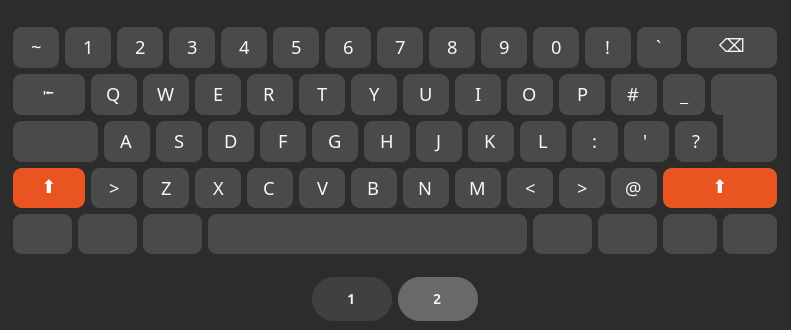
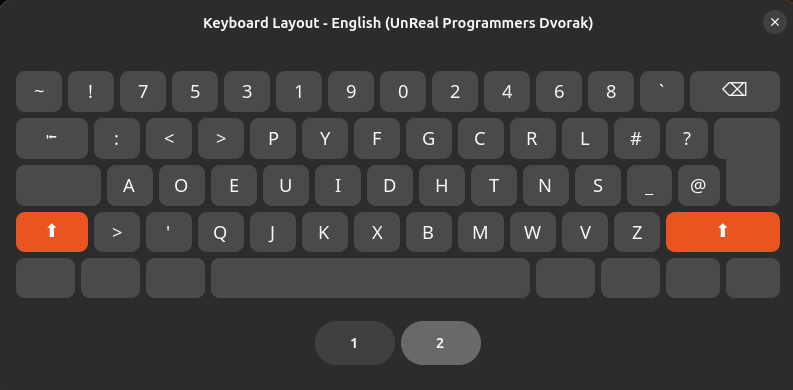
modified dvorak number row

diff --git a/xkb/README.md b/xkb/README.md
@@ -1,18 +1,16 @@
 
 # ⌨ Custom Keyboard layout config — Installation Guide
 
-Includes two keyboard layouts for a custom qwerty and dvorak layout
+Includes two keyboard layouts for a custom qwerty and dvorak layout in the xkb dir.
 
 Inspired by the primeagen's layout.
 
 
 ### Base layer 
-![Programmers qwerty](./base.png)
-![Programmers dvorak](./base2.png)
+![Programmers dvorak](./base.png)
 
 ### Shift layer
-![Programmers qwerty](./shift.png)
-![Programmers dvorak](./shift2.png)
+![Programmers dvorak](./shift.png)
 
 ## 🐧 Linux Setup Steps (CachyOS, Ubuntu, Kali, REMnux)
 
@@ -56,7 +54,7 @@ Force the background window system environment to flush its active source layout
 ```bash
 gsettings reset org.gnome.desktop.input-sources sources
 gsettings reset org.gnome.desktop.input-sources mru-sources
-gsettings set org.gnome.desktop.input-sources sources "[('xkb', 'us'), ('xkb', 'prog-qwerty'), ('xkb', 'unreal-prog-dvorak')]"
+gsettings set org.gnome.desktop.input-sources sources "[('xkb', 'us'),('xkb', 'unreal-prog-dvorak')]"
 
 ```
 
@@ -74,7 +72,7 @@ Update the `input` block:
 ```text
 input {
     kb_layout = us
-    kb_variant = prog-qwerty , unreal-prog-dvorak
+    kb_variant = unreal-prog-dvorak
 }
 
 ```
@@ -83,7 +81,7 @@ input {
 
 1. Open **Settings** -> **Keyboard** -> **Layout** tab selection.
 2. Toggle off the **Use system defaults** selector checkbox.
-3. Click **Add**, find and select `English (Programmers Qwerty)`or `English (Unreal Programmers Dvorak)`
+3. Click **Add**, find and select `English (Unreal Programmers Dvorak)`
 
 ---
 
@@ -98,26 +96,16 @@ And add ;
 sudo nvim /etc/keyd/default.conf 
 
 ```ini
-[ids]
-*
 
-[main]
-
-enter = right 
 esc = capslock
 
-leftalt = backspace
-rightalt = enter
+leftalt = overload(alt, backspace)
 
-rightshift = rightalt
+rightalt = overload(altgr, enter)
 
-capslock = rightcontrol 
-
-compose = esc
-rightcontrol = compose 
+capslock = overload(control, esc)
 
 space = overload(shift, space)
-
 
 ```
 
